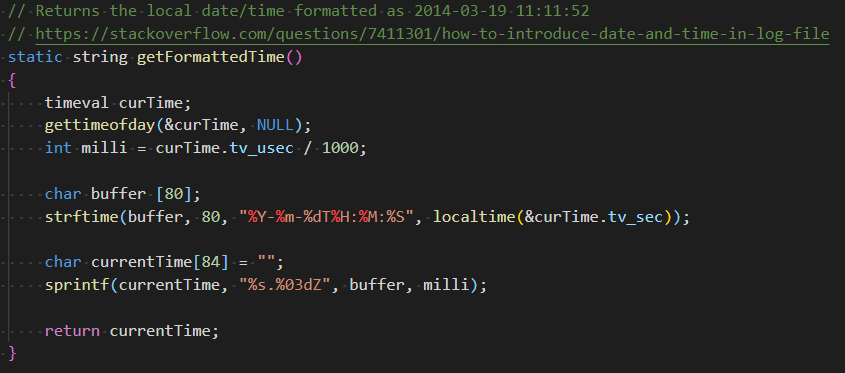
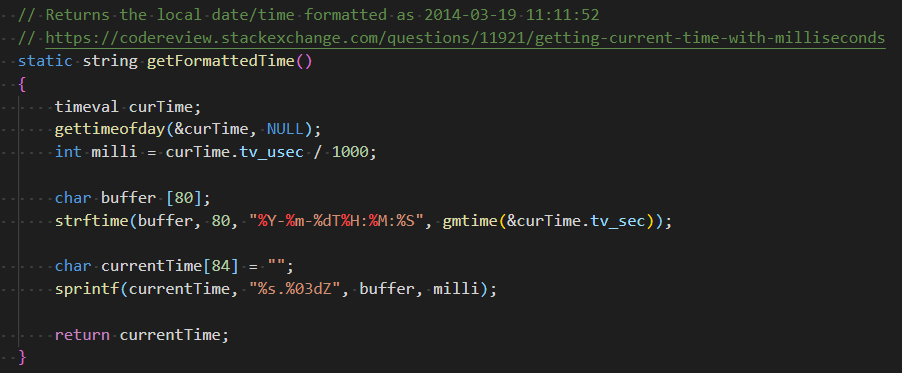
IP adress Hostname removed.

diff --git a/5.sem/isa/src/DnsExport.cpp b/5.sem/isa/src/DnsExport.cpp
@@ -8,6 +8,7 @@
 #include <netdb.h>      // gethostbyname...
 #include <thread>       // Sending loop
 #include <arpa/inet.h>  // inet_pton
+#include <algorithm>    // check IPv6
 
 #include "DnsPacket.cpp"
 #include "DnsRecord.cpp"
@@ -37,12 +38,14 @@ rawParameters parameters;
 
 /*************************************************** CONSTS ******************************************************/
 
-const string help = "Invalid parameters!\n\n"
-                    "Usage: dns-export [-r file.pcap] [-i interface] [-s syslog-server] [-t seconds] \n"
-                    "file.pcap - file to sniff\n"
-                    "interface - interface to sniff (or ANY for all interfaces)\n"
-                    "syslog-server - syslog server where the stats are sent\n"
-                    "seconds - time period of interface sniffing\n";
+const string usage = "Usage: dns-export [-r file.pcap] [-i interface] [-s syslog-server] [-t seconds] \n"
+                     "file.pcap - file to sniff\n"
+                     "interface - interface to sniff (or ANY for all interfaces)\n"
+                     "syslog-server - Syslog server where the stats are sent\n"
+                     "seconds - time period of sending stat to Syslog server\n";
+
+const string help = "Invalid parameters!\n" + usage;
+                    
 
 #define SYSLOG_PORT 514
 #define MESSAGE_SIZE 400
@@ -66,7 +69,7 @@ class DnsExport
     {
         int option;
 
-        while ((option = getopt(argc, (char **)argv, "r:i:s:t:")) != -1)
+        while ((option = getopt(argc, (char **)argv, "r:i:s:t:h")) != -1)
         {
             switch (option)
             {
@@ -98,6 +101,9 @@ class DnsExport
                     }
                     parameters.time = string(optarg);
                     break;
+                case 'h':
+                    cout << usage;
+                    exit(EXIT_SUCCESS);
                 default:
                     ERR_RET(help);
             }
@@ -281,7 +287,7 @@ class DnsExport
         bool ipv6 = false;
 
         // Check if IPv6 address
-        if (parameters.syslogServer.find_first_of(":") != string::npos)
+        if (count(parameters.syslogServer.begin(), parameters.syslogServer.end(), ':') > 1)
         {
             ipv6 = true;
 
@@ -324,32 +330,6 @@ class DnsExport
         if (!gethostname(tmp, sizeof tmp))
         {
             hostname = tmp;
-        }
-        else
-        {
-            // Return value != signalize error. Try to get ip address
-            if (ipv6)
-            {
-                struct sockaddr_in6 ipAddress;
-                socklen_t length = sizeof(ipAddress);
-                char hostnameChar[INET_ADDRSTRLEN];
-
-                if (!getsockname(sock, (struct sockaddr*)&ipAddress, &length))
-                {
-                    inet_ntop(AF_INET6, ipAddress.sin6_addr.s6_addr, hostnameChar, length);
-                    hostname = hostnameChar;
-                }
-            }
-            else
-            {
-                struct sockaddr_in ipAddress;
-                socklen_t length = sizeof(ipAddress);
-
-                if (!getsockname(sock, (struct sockaddr*)&ipAddress, &length))
-                {
-                    hostname = ipAddress.sin_addr.s_addr;
-                }
-            }
         }
 
         // Get and send all mesagges
@@ -428,7 +408,7 @@ class DnsExport
         int milli = curTime.tv_usec / 1000;
 
         char buffer [80];
-        strftime(buffer, 80, "%Y-%m-%dT%H:%M:%S", localtime(&curTime.tv_sec));
+        strftime(buffer, 80, "%Y-%m-%dT%H:%M:%S", gmtime(&curTime.tv_sec));
 
         char currentTime[84] = "";
         sprintf(currentTime, "%s.%03dZ", buffer, milli);

diff --git a/5.sem/isa/doc/manual.tex b/5.sem/isa/doc/manual.tex
@@ -138,18 +138,13 @@
         vo funkcii \textbf{pcap\_open\_live()}, chceme aby sa stihli vytvoriť všetky štatistiky pred odoslaním. Kód je inšpirovaný vláknom na stránke
         cplusplus.com\footnote{http://www.cplusplus.com/forum/beginner/91449/}.:\\\\
         \includegraphics[scale=0.6]{loop.png}
-        
-
-        \subsection{Pole "hostname" v Syslog správe}
-        RFC 5424\footnote{https://tools.ietf.org/html/rfc5424} špecifikuje prioritu. Aplikácia nepredpokladá existenciu FQDN ani statickú IP adresu, preto
-        sa najprv pokúsi získať hostname a až v prípade neúspechu IPv6 alebo IPv4 adresu.:\\\\
-        \includegraphics[scale=0.5]{hostname.png}
 
         \newpage
 
         \subsection{Získanie aktuálneho timestampu}
         Syslog správa potrebuje timestamp v špecifickom tvare. Kód je inšpirovaný vláknom na stránke
-        codereview.stackexchange.com\footnote{https://codereview.stackexchange.com/questions/11921/getting-current-time-with-milliseconds}.:\\\\
+        codereview.stackexchange.com\footnote{https://codereview.stackexchange.com/questions/11921/getting-current-time-with-milliseconds}. Aplikácia
+        odosiela čas v \epmh{UTC}.:\\\\
         \includegraphics[scale=0.6]{timestamp.png}
 
         \subsection{Logovanie}
@@ -188,13 +183,19 @@
         Pri odchytávaní na rozhraní sa štatistiky vypíšu na \textbf{stdout} pri zaslaní signálu \texttt{SIGUSR1}:\\\\
         \includegraphics[scale=0.6]{i2.png}\\\\
         \includegraphics[scale=0.6]{i3.png}
+
+        \subsection{Zobrazenie nápovedy}
+        \noindent
+        Ak je zadaný argument \textbf{-h}, na \textbf{stdout} je vypísaná nápoveda a program skončí. Nápoveda je vypísaná
+        aj v prípade nevalidnej kombinácie argumentov.:\\\\
+        \includegraphics[scale=0.6]{help.png}
     
     \newpage
     \section{Prehľad naštudovanej literatúry}
         \noindent
         Práca s knižnicou libpcap a parsovanie ethernetovej hlavičky a transportných protokolov - príklady
         k predmetu ISA (\texttt{sniff.c}, \texttt{read-pcap.c}) a rôzne voľne dostupné zdroje na internete.\\\\
-        Syslog protokol - prednáška \texttt{isa-logovani.pdf}\\ 
+        Syslog protokol - prednáška \texttt{isa-logovani.pdf} a \texttt{RFC 5424}\\ 
         Parsovanie DNS hlavičky a jednotlivých typov záznamov - \texttt{RFC 1035}\\
         Parsovanie záznamov pre DNSSEC - \texttt{RFC 4034}\\
         Parsovanie hlavičky pri \texttt{LINKTYPE\_LINUX\_SLL} - \texttt{tcpdump.org}\\
@@ -202,6 +203,7 @@
     
     \section{Literatúra}
     \noindent
+    \url{https://tools.ietf.org/html/rfc5424}\\
     \url{https://tools.ietf.org/html/rfc1035}\\
     \url{https://www.ietf.org/rfc/rfc4034.txt}\\
     \url{http://www.tcpdump.org/linktypes/LINKTYPE_LINUX_SLL.html}\\
